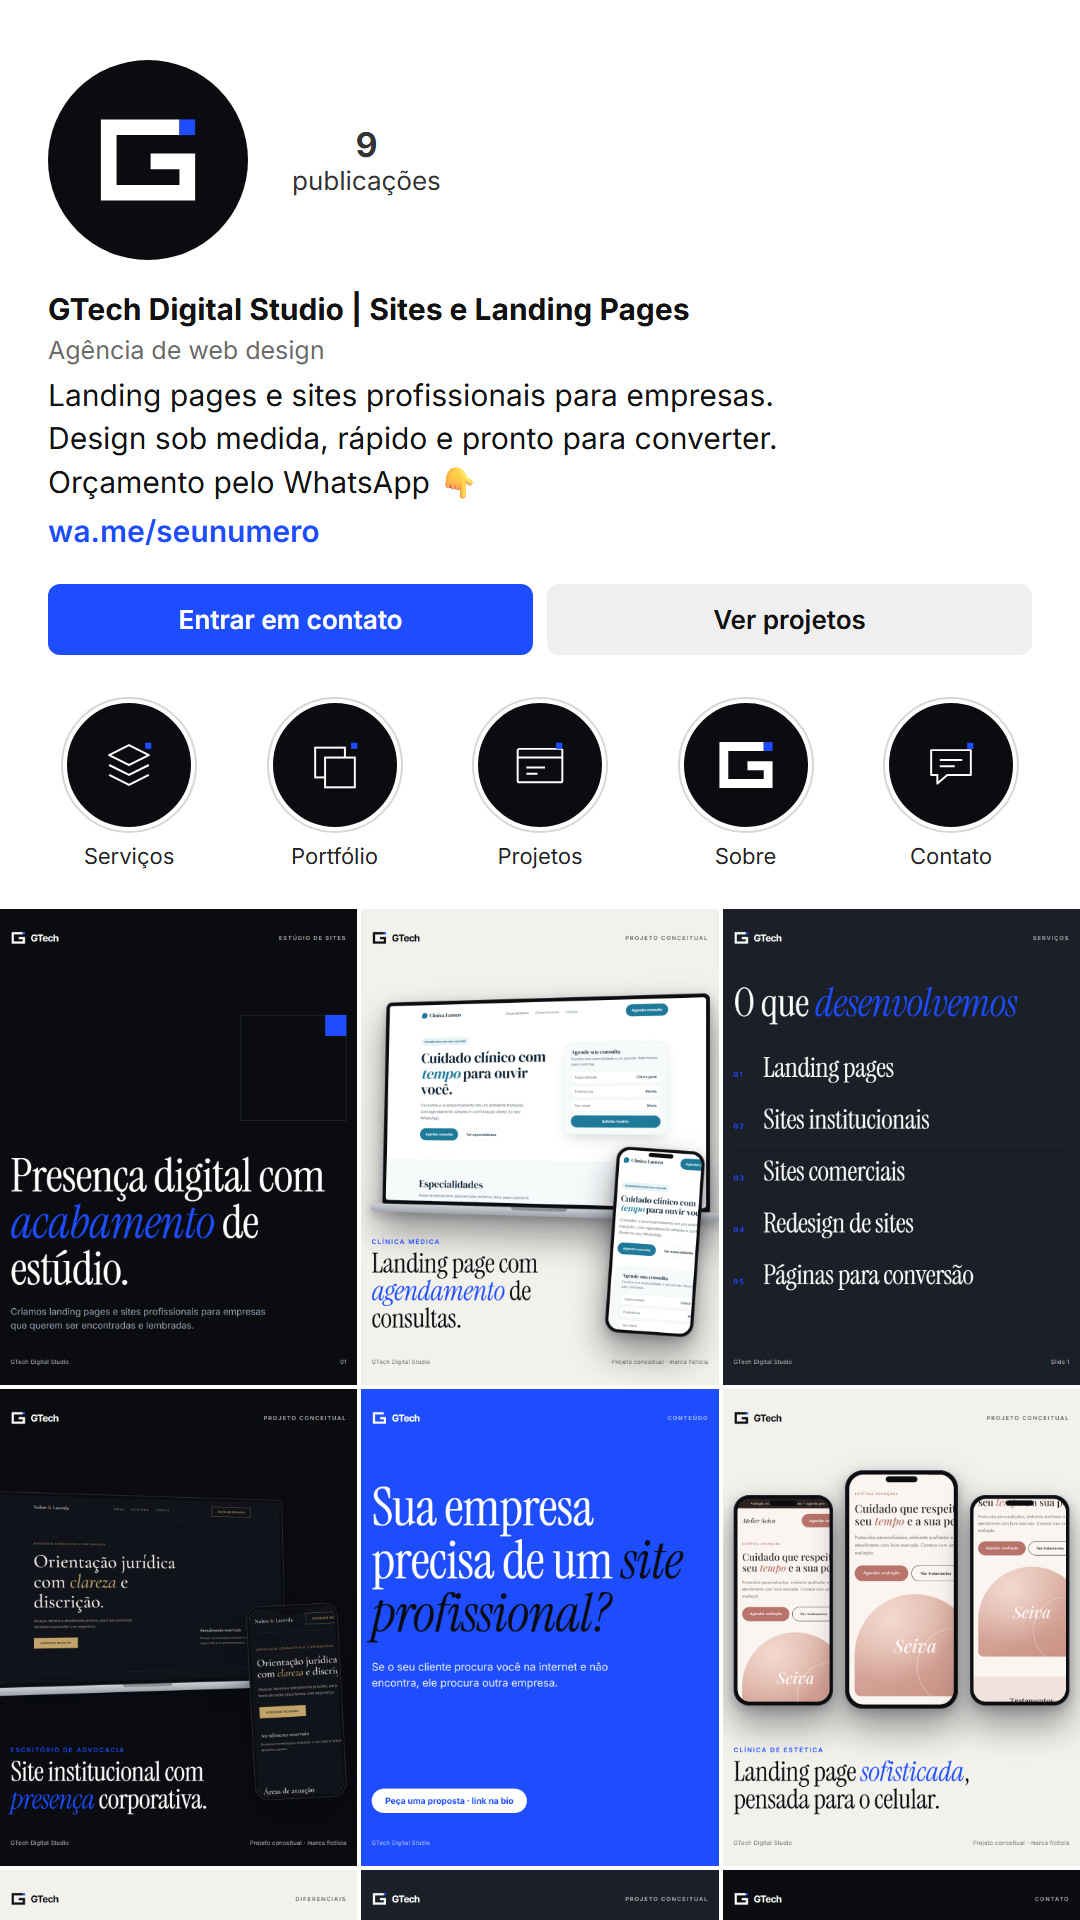
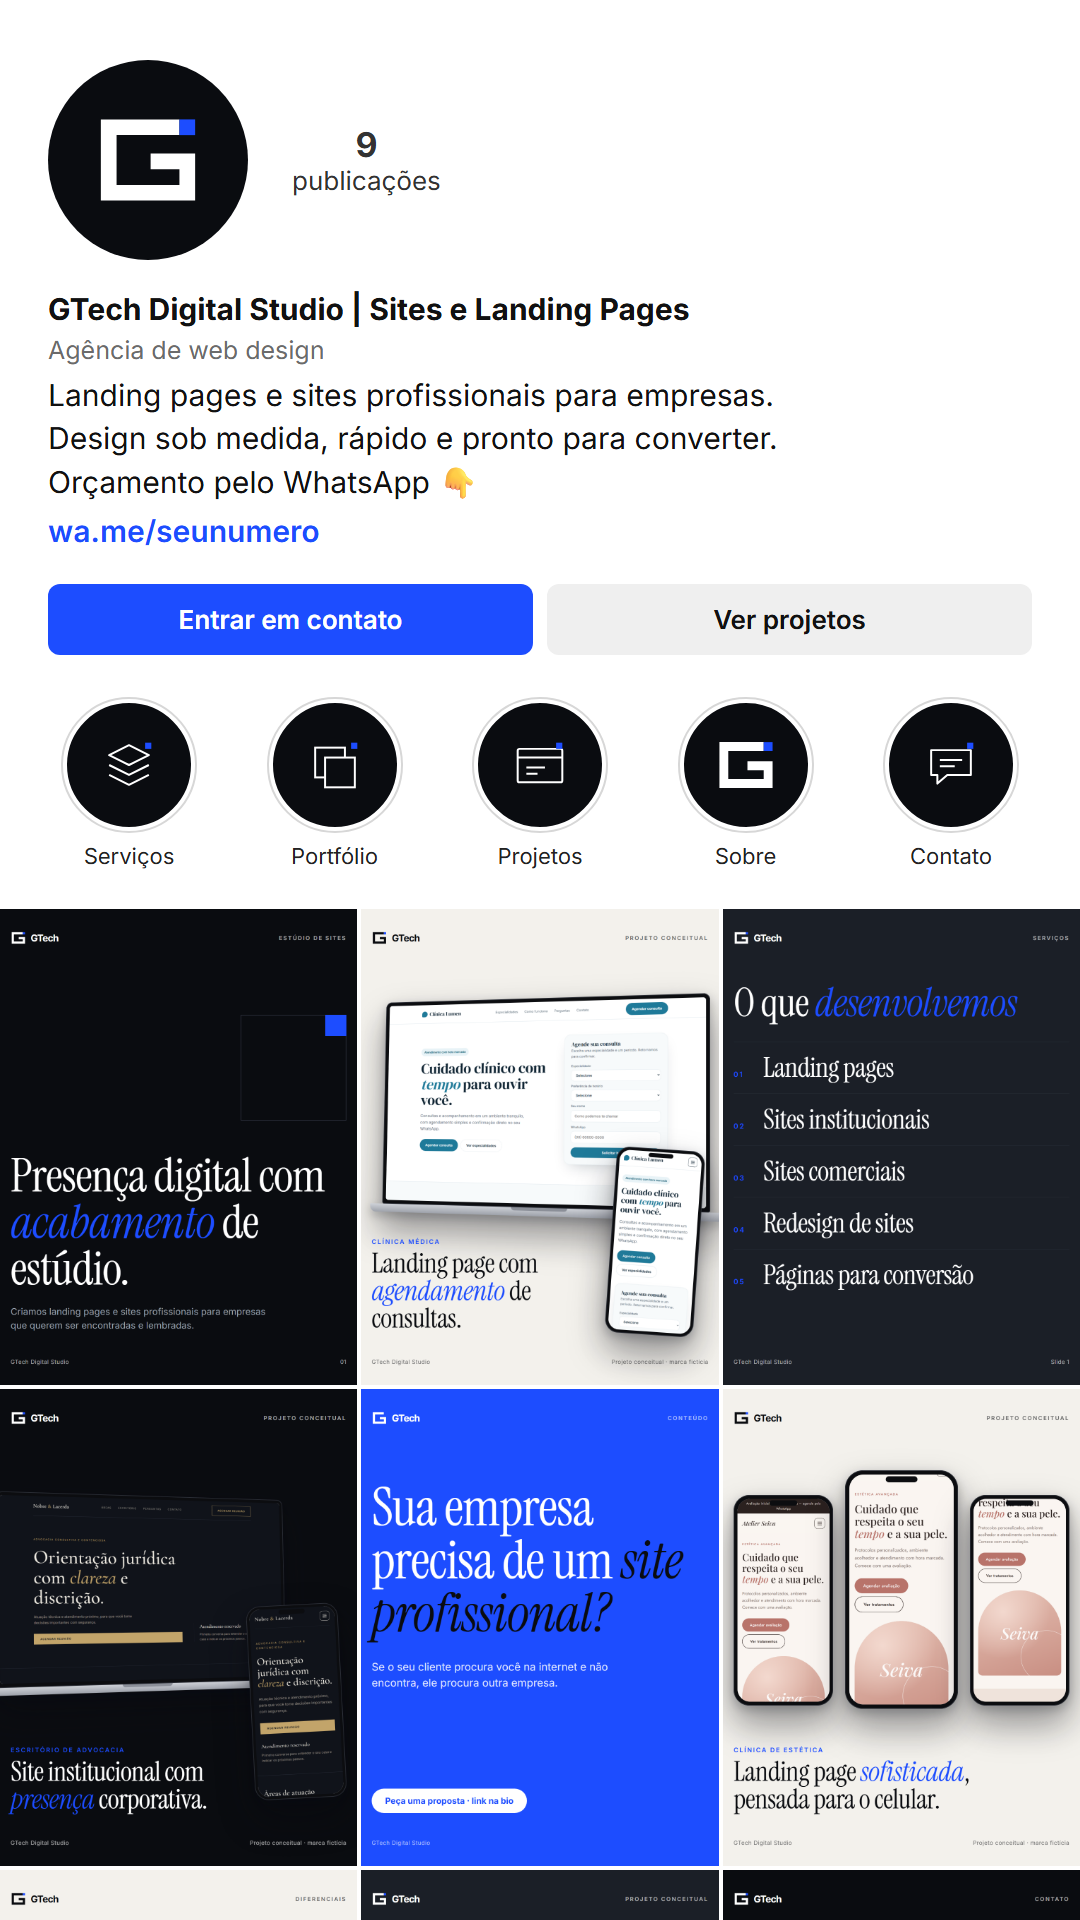
Novo site institucional da GTech com portfolio de 4 demonstracoes navegaveis

diff --git a/site/projetos/demo.js b/site/projetos/demo.js
@@ -1,5 +1,8 @@
 /* Comportamento compartilhado pelos 4 sites demonstrativos (JavaScript puro). */
 (() => {
+  // ?shot: usado só para gerar as imagens do portfólio (esconde a faixa de aviso).
+  if (location.search === '?shot') document.querySelector('.demobar')?.remove();
+
   // Menu responsivo
   const btn = document.querySelector('.mb');
   const nav = document.querySelector('.links');

diff --git a/marca/render.py b/marca/render.py
@@ -14,10 +14,14 @@ CHROME = next((p for p in (
 ) if Path(p).exists()), None)
 
 
+def _url(html) -> str:
+    return html if isinstance(html, str) else html.resolve().as_uri()
+
+
 MIN_WINDOW = 520  # o Chrome em modo headless não cria janelas muito estreitas
 
 
-def shot(html: Path, png: Path, width: int, height: int, scale: float = 1.0, bg: str | None = None) -> None:
+def shot(html, png: Path, width: int, height: int, scale: float = 1.0, bg: str | None = None) -> None:
     """Captura a página. Para larguras de celular, renderiza num <iframe> com a largura exata
     (assim os media queries respondem à largura real) e corta o excedente depois."""
     if width < MIN_WINDOW:
@@ -25,7 +29,7 @@ def shot(html: Path, png: Path, width: int, height: int, scale: float = 1.0, bg:
         wrapper = Path(tempfile.mkdtemp()) / "m.html"
         wrapper.write_text(
             f'<!doctype html><meta charset="utf-8"><style>html,body{{margin:0;background:#fff}}iframe{{display:block;border:0;width:{width}px;height:{height}px}}</style>'
-            f'<iframe src="{html.resolve().as_uri()}"></iframe>', encoding="utf-8")
+            f'<iframe src="{_url(html)}"></iframe>', encoding="utf-8")
         shot(wrapper, png, MIN_WINDOW, height, scale, bg)
         img = Image.open(png.resolve())
         img.crop((0, 0, round(width * scale), round(height * scale))).save(png.resolve())
@@ -39,7 +43,7 @@ def shot(html: Path, png: Path, width: int, height: int, scale: float = 1.0, bg:
             CHROME, "--headless=new", "--disable-gpu", "--hide-scrollbars", f"--user-data-dir={profile}",
             f"--window-size={width},{height}", f"--force-device-scale-factor={scale}",
             "--virtual-time-budget=9000", *([f"--default-background-color={bg}"] if bg else []),
-            f"--screenshot={png}", html.resolve().as_uri(),
+            f"--screenshot={png}", _url(html),
         ], check=True, capture_output=True, timeout=120)
 
 

diff --git a/marca/build.py b/marca/build.py
@@ -310,7 +310,7 @@ def build_telas() -> None:
     """
     demos = ROOT.parent / "site" / "projetos"
     for k in PROJECTS:
-        page_ = demos / k / "index.html"
+        page_ = (demos / k / "index.html").resolve().as_uri() + "?shot"  # ?shot esconde a faixa de aviso nas capturas
         JOBS.append((page_, OUT / "telas" / f"{k}-desktop.png", 1440, 1500, 1.0, None))
         JOBS.append((page_, OUT / "telas" / f"{k}-mobile.png", 390, 1700, 2.0, None))
         JOBS.append((page_, SRC / "_site" / f"{k}-desktop.png", 1440, 900, 1.0, None))

diff --git a/site/README.md b/site/README.md
@@ -1,24 +1,43 @@
-# Site / landing page da GTech
+# Site da GTech Digital Studio
 
-Página estática (HTML, CSS e JS puros). Não tem servidor nem banco de dados.
+Site institucional em **HTML, CSS e JavaScript puros** (sem frameworks, sem build, sem cookies nem rastreadores).
 
-## Como personalizar
-Edite **só** o arquivo [`config.js`](config.js): marca, WhatsApp, e-mail, Instagram, seu nome ou razão social, CNPJ, cidade, prazo e preços.
-Enquanto faltar algo obrigatório, a página mostra um aviso amarelo no topo e destaca os campos pendentes em amarelo.
-Preço vazio aparece como "Sob orçamento".
+```
+site/
+  index.html              página principal
+  css/style.css           estilos do site     css/fonts.css  fontes locais
+  js/main.js              animações, menu e rolagem
+  js/config.js            ← telefone, e-mail, Instagram, CNPJ e mensagens do WhatsApp
+  assets/images/          telas dos projetos (WebP)     assets/fonts/  Instrument Serif e Inter
+  favicon.svg
+  projetos/
+    clinica/  advocacia/  estetica/  servicos/    4 demonstrações navegáveis (index.html cada)
+    demo.css  demo.js                              partes comuns das demonstrações
+```
 
-Os textos (títulos, perguntas, planos) estão em [`index.html`](index.html); troque pelo que for verdade para o seu serviço.
+## Ver no computador
+Na pasta `site`: `python -m http.server 5500` e abra http://localhost:5500
+(ou abra o `index.html` com duplo clique).
 
-## Antes de publicar, confira
-- O prazo e os preços são os que você realmente cumpre.
-- Não existem depoimentos, números ou clientes inventados. Os modelos da seção "Modelos" estão marcados como demonstração. Quando tiver trabalhos reais (com autorização do cliente), troque os modelos por eles.
-- O WhatsApp abre com o número correto (teste no celular).
+## Trocar contato e mensagens
+Edite só [`js/config.js`](js/config.js). Cada botão de WhatsApp abre uma mensagem diferente
+(orçamento, cada serviço, portfólio, contato).
 
-## Testar localmente
-Abra `index.html` no navegador, ou na pasta `site`: `python -m http.server 5500` e acesse http://localhost:5500.
+## Projetos demonstrativos
+São **conceituais, com marcas e dados fictícios**, e dizem isso na página. Não os apresente como trabalhos de clientes.
+Os formulários deles não enviam nada; só mostram uma resposta de exemplo.
+
+## Imagens do portfólio
+As imagens em `assets/images/` são capturas das demonstrações. Para refazê-las depois de mudar uma demo:
+`cd ../marca && python build.py telas` (precisa de Chrome e do Pillow: `pip install pillow`).
+
+## Acessibilidade e desempenho
+Respeita `prefers-reduced-motion`, tem foco visível, menu acessível por teclado (Esc fecha), textos alternativos nas imagens,
+fontes hospedadas no próprio site e imagens em WebP com `width`/`height` definidos.
 
 ## Publicar de graça
-Netlify, Cloudflare Pages ou Vercel: envie a pasta `site/` (sem build). Depois aponte o seu domínio próprio.
+Arraste a pasta `site/` em **netlify.com/drop** (ou Cloudflare Pages / Vercel, sem build). Depois aponte o seu domínio.
 
 ## Privacidade (LGPD)
-O formulário só monta a mensagem e abre o WhatsApp do visitante. O site não coleta, guarda nem envia dados, e não usa cookies nem rastreadores. Se você adicionar Google Analytics, pixel ou outro rastreador, será preciso aviso de cookies e política de privacidade.
+O site não coleta nem envia dados e não usa cookies. Os botões só abrem o WhatsApp, o e-mail ou o Instagram do visitante.
+Se você adicionar Google Analytics, pixel ou outro rastreador, será preciso aviso de cookies e política de privacidade.

diff --git a/marca/README.md b/marca/README.md
@@ -19,9 +19,8 @@ Tudo aqui é gerado por código a partir de [`build.py`](build.py), então dá p
 
 Bio, nome do perfil e legendas: [`instagram-bio.md`](instagram-bio.md).
 
-## Projetos demonstrativos (`demos/`)
-Quatro sites HTML/CSS (sem build), abra o `index.html` no navegador:
-`clinica` · `advocacia` · `estetica` · `servicos`.
+## Projetos demonstrativos (`../site/projetos/`)
+Quatro sites HTML/CSS/JS navegáveis, que também são o portfólio do site: `clinica` · `advocacia` · `estetica` · `servicos`.
 São **projetos conceituais com marcas fictícias** (Clínica Lumen, Nobre & Lacerda, Atelier Seiva, Prumo). Todos trazem o aviso no rodapé e não usam depoimentos, números ou fotos de terceiros.
 
 ## Sistema de marca (resumo)
@@ -39,4 +38,4 @@ Precisa de Chrome instalado e internet (Google Fonts). Os HTML intermediários f
 ## Observações
 - Os logos horizontais em PNG usam as fontes carregadas na renderização. Para uso em documentos, prefira os PNGs; o SVG vetorial é só o símbolo.
 - No preview do perfil, `wa.me/seunumero` é um espaço reservado: troque pelo seu número.
-- Para publicar os sites demonstrativos, arraste a pasta de cada um no Netlify Drop (netlify.com/drop).
+- `python build.py telas` também atualiza as imagens WebP do site em `../site/assets/images/`.
